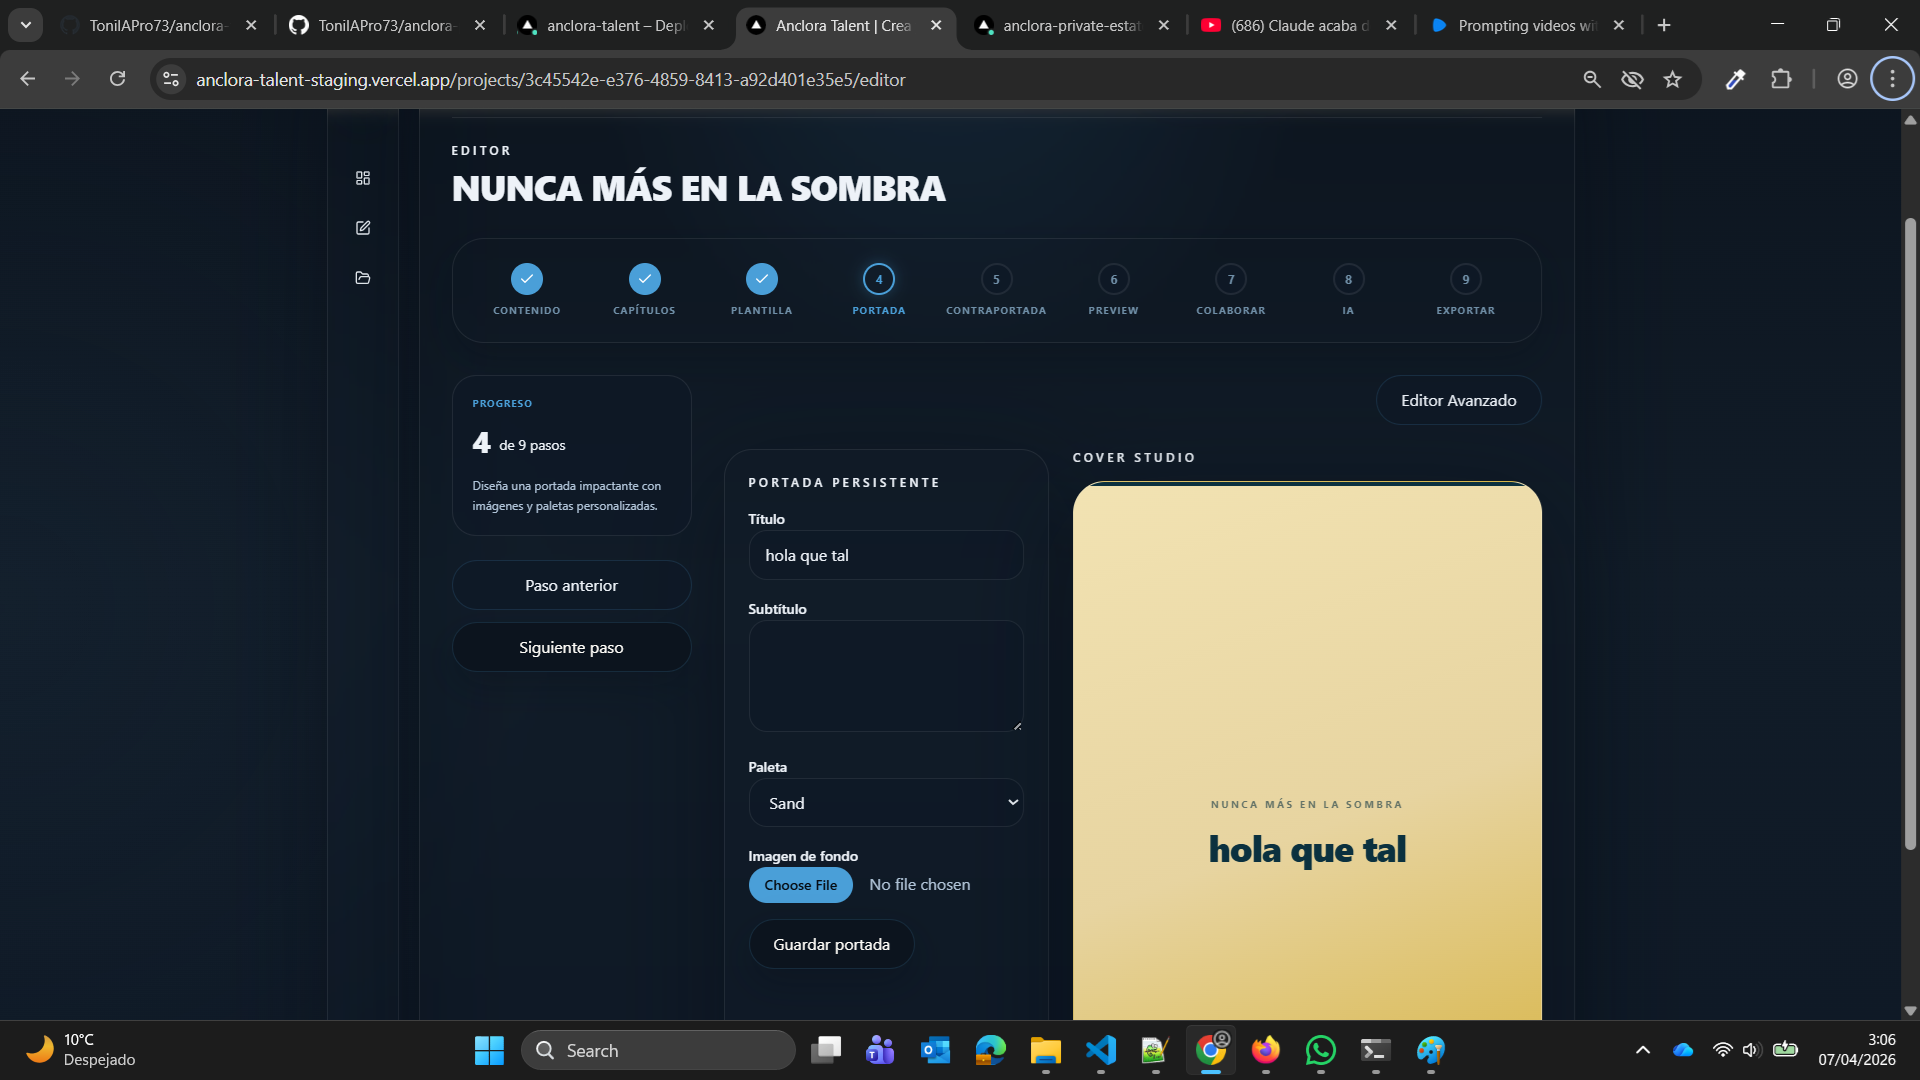
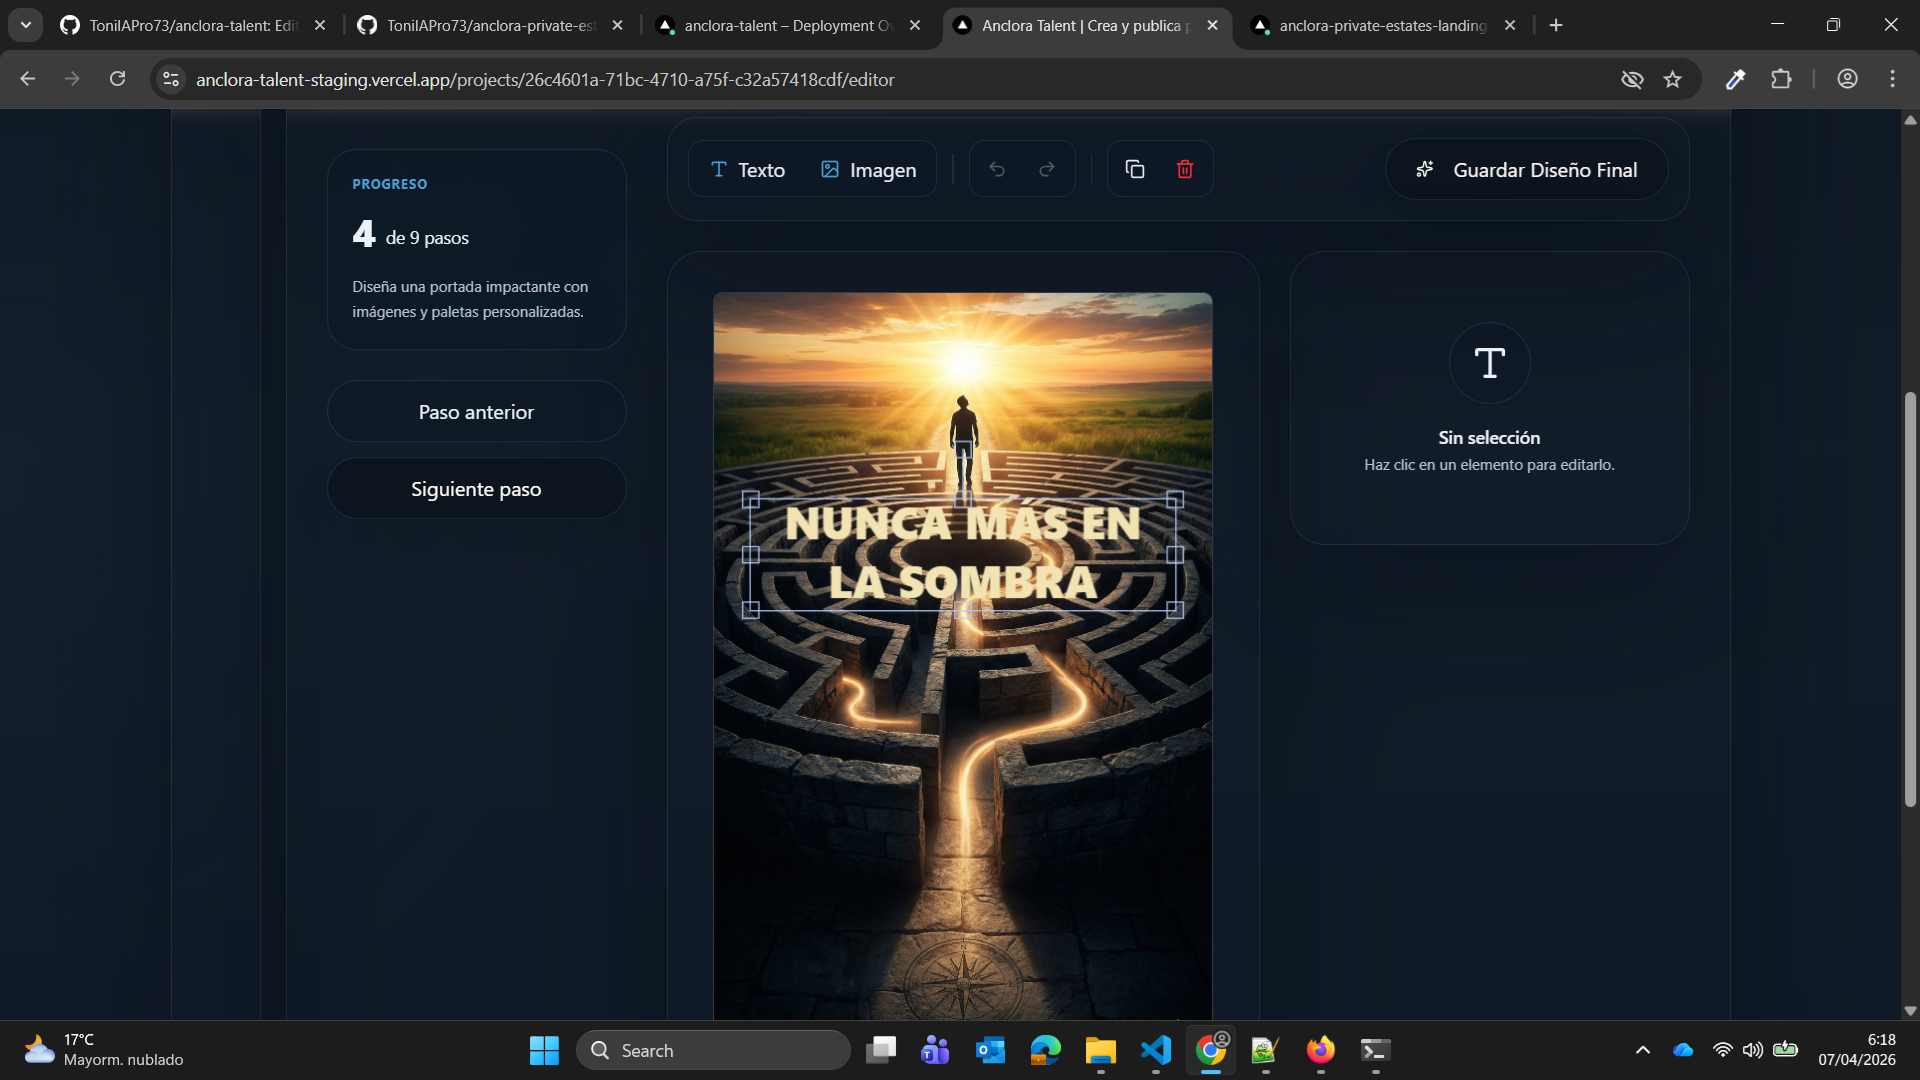
mejora editor avanzado portada

diff --git a/src/lib/canvas-utils.ts b/src/lib/canvas-utils.ts
@@ -4,11 +4,23 @@ let fabricModule: any = null;
 // Función para obtener la instancia de Fabric.js
 export async function getFabric() {
   if (fabricModule) return fabricModule;
-  const mod = await import('fabric');
-  // En Fabric 6/7 ESM, el objeto fabric está en mod
-  // En versiones anteriores o CJS, podría estar en mod.default
-  fabricModule = (mod as any).fabric || mod;
-  return fabricModule;
+  try {
+    const mod = await import('fabric');
+    console.info('[getFabric] Fabric module imported:', Object.keys(mod));
+    // En Fabric 7 ESM, las clases están en el módulo directamente.
+    // Algunos bundlers podrían poner todo en .default
+    fabricModule = mod.fabric || (mod.default && mod.default.fabric) ? (mod.fabric || mod.default.fabric) : mod;
+    
+    // Si fabricModule.default existe y tiene lo que necesitamos, usarlo (común en algunos entornos Next.js)
+    if (fabricModule.default && (fabricModule.default.Canvas || fabricModule.default.Textbox)) {
+      fabricModule = fabricModule.default;
+    }
+    
+    return fabricModule;
+  } catch (error) {
+    console.error('[getFabric] Error importing fabric:', error);
+    throw error;
+  }
 }
 
 export const CANVAS_WIDTH = 400;
@@ -24,8 +36,15 @@ export async function createFabricCanvas(
   options?: any
 ) {
   const fabric = await getFabric();
-  // Intentar usar fabric.Canvas o fabric.Canvas (clase)
-  const CanvasClass = fabric.Canvas || (fabric as any).default?.Canvas;
+  // En Fabric 7, la clase es Canvas. 
+  // Intentar obtenerla de varias formas comunes
+  const CanvasClass = fabric.Canvas || fabric.FabricCanvas || (fabric as any).default?.Canvas;
+  
+  if (!CanvasClass) {
+    console.error('[createFabricCanvas] Canvas class not found in fabric module', fabric);
+    throw new Error('Fabric Canvas class not found');
+  }
+
   return new CanvasClass(canvasElement, {
     width: CANVAS_WIDTH,
     height: CANVAS_HEIGHT,
@@ -40,8 +59,14 @@ export async function createFabricCanvas(
  */
 export async function addTextToCanvas(canvas: any, text: string, options?: any) {
   const fabric = await getFabric();
-  const TextboxClass = fabric.Textbox || fabric.IText;
+  // En Fabric 7, Textbox es el nombre preferido
+  const TextboxClass = fabric.Textbox || fabric.IText || fabric.Text;
   
+  if (!TextboxClass) {
+    console.error('[addTextToCanvas] Textbox class not found in fabric module', fabric);
+    throw new Error('Fabric Textbox class not found');
+  }
+
   const fabricText = new TextboxClass(text, {
     left: canvas.width / 2,
     top: canvas.height / 2,
@@ -59,6 +84,7 @@ export async function addTextToCanvas(canvas: any, text: string, options?: any) 
 
   canvas.add(fabricText);
   canvas.setActiveObject(fabricText);
+  
   if (canvas.requestRenderAll) canvas.requestRenderAll();
   else canvas.renderAll();
 

diff --git a/src/components/projects/advanced-cover/PropertyPanel.tsx b/src/components/projects/advanced-cover/PropertyPanel.tsx
@@ -113,17 +113,30 @@ export function CoverPropertyPanel() {
     canvas.renderAll();
   };
 
-  const handleDuplicate = () => {
-    fabricObject.clone((cloned: any) => {
+  const handleDuplicate = async () => {
+    try {
+      const cloned = await fabricObject.clone();
+      const id = `clone-${Date.now()}`;
       cloned.set({
         left: (cloned.left || 0) + 20,
         top: (cloned.top || 0) + 20,
-        id: `clone-${Date.now()}`,
+        id: id,
       });
       canvas.add(cloned);
+      
+      // Add to store
+      addElement({
+        id,
+        type: fabricObject.type.includes('text') ? 'text' : 'image',
+        object: cloned,
+        properties: { ...((fabricObject as any).toObject?.() || {}) },
+      });
+
       canvas.setActiveObject(cloned);
       canvas.renderAll();
-    });
+    } catch (error) {
+      console.error('[PropertyPanel] Error cloning object:', error);
+    }
   };
 
   return (

diff --git a/src/components/projects/advanced-cover/AdvancedCoverEditor.tsx b/src/components/projects/advanced-cover/AdvancedCoverEditor.tsx
@@ -25,7 +25,7 @@ export function AdvancedCoverEditor({
     subtitle: project.cover.subtitle,
   });
 
-  const { canvas, addElement, clear, selectElement } = useCanvasStore();
+  const { canvas, setCanvas, addElement, clear, selectElement } = useCanvasStore();
   const [isRendering, startRenderTransition] = useTransition();
   const [rendered, setRendered] = useState(false);
   const [renderedImageUrl, setRenderedImageUrl] = useState<string | null>(project.cover.renderedImageUrl ?? null);
@@ -201,8 +201,9 @@ export function AdvancedCoverEditor({
   const handleCanvasReady = useCallback((fabricCanvas: any) => {
     console.info('[AdvancedCoverEditor] handleCanvasReady triggered');
     setCanvasInitialized(true);
+    setCanvas(fabricCanvas);
     loadProjectData(fabricCanvas);
-  }, [loadProjectData]);
+  }, [loadProjectData, setCanvas]);
 
   const handleSaveAndRender = () => {
     if (!canvas) return;

diff --git a/src/components/projects/advanced-cover/Toolbar.tsx b/src/components/projects/advanced-cover/Toolbar.tsx
@@ -95,12 +95,22 @@ export function CoverToolbar() {
 
     try {
       const cloned = await activeObject.clone();
+      const id = `clone-${Date.now()}`;
       cloned.set({
         left: (cloned.left || 0) + 20,
         top: (cloned.top || 0) + 20,
-        id: `clone-${Date.now()}`,
+        id: id,
       });
       canvas.add(cloned);
+      
+      // Add to store
+      addElement({
+        id,
+        type: activeObject.type.includes('text') ? 'text' : 'image',
+        object: cloned,
+        properties: { ...((activeObject as any).toObject?.() || {}) },
+      });
+
       canvas.setActiveObject(cloned);
       canvas.requestRenderAll?.() || canvas.renderAll();
     } catch (error) {

diff --git a/src/lib/canvas-store.ts b/src/lib/canvas-store.ts
@@ -106,7 +106,8 @@ export const useCanvasStore = create<CanvasStore>((set: any, get: any) => ({
     const state = get();
     if (state.canvas) {
       const newHistory = state.history.slice(0, state.historyStep + 1);
-      newHistory.push(JSON.stringify(state.canvas.toJSON()));
+      // Incluir 'id' en la serialización para que se mantenga en el historial
+      newHistory.push(JSON.stringify(state.canvas.toJSON(['id'])));
       set({
         history: newHistory,
         historyStep: newHistory.length - 1,
